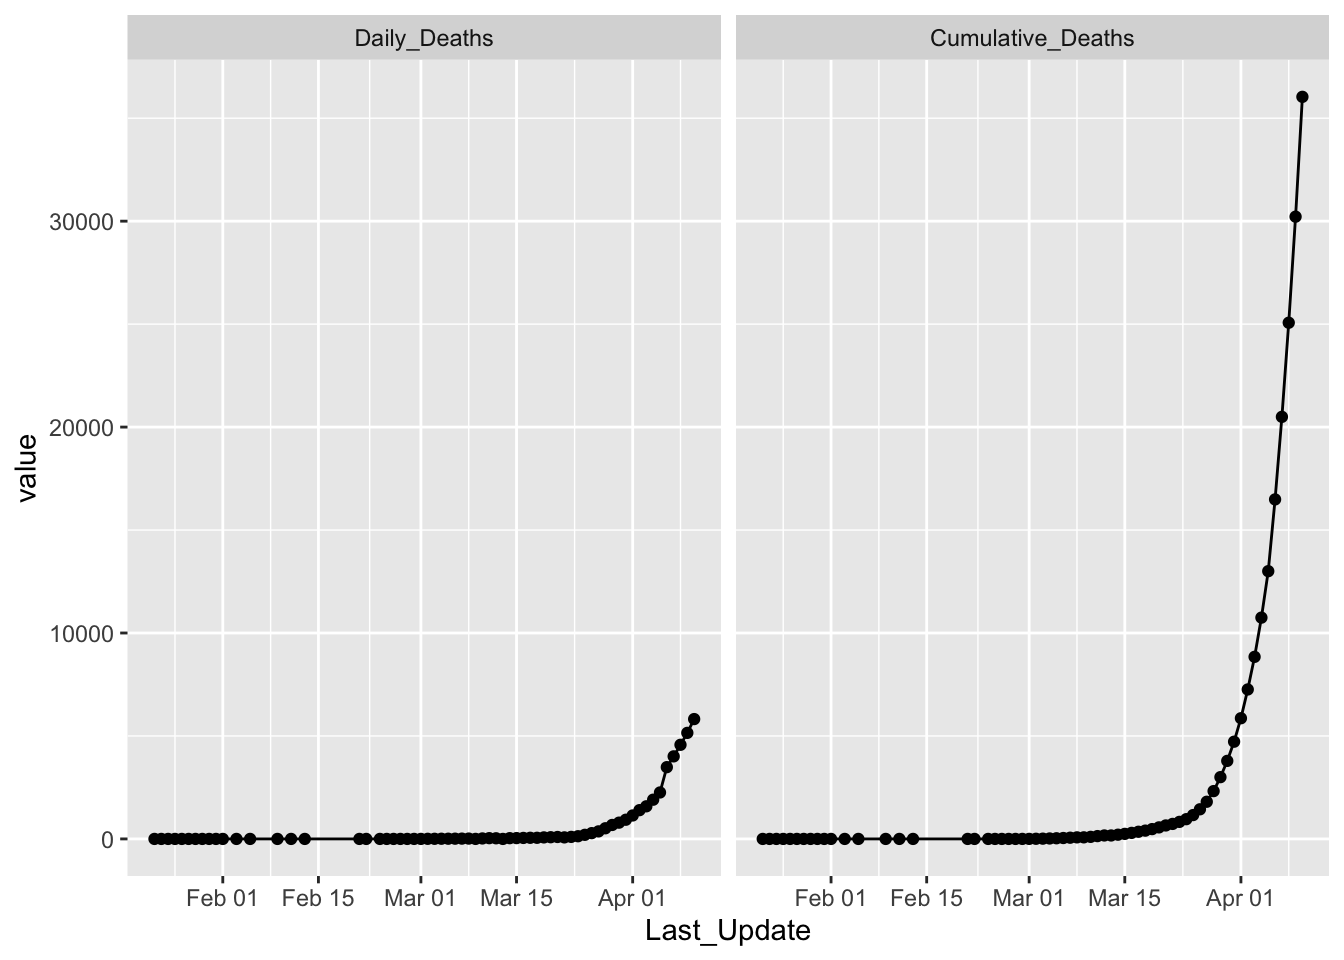
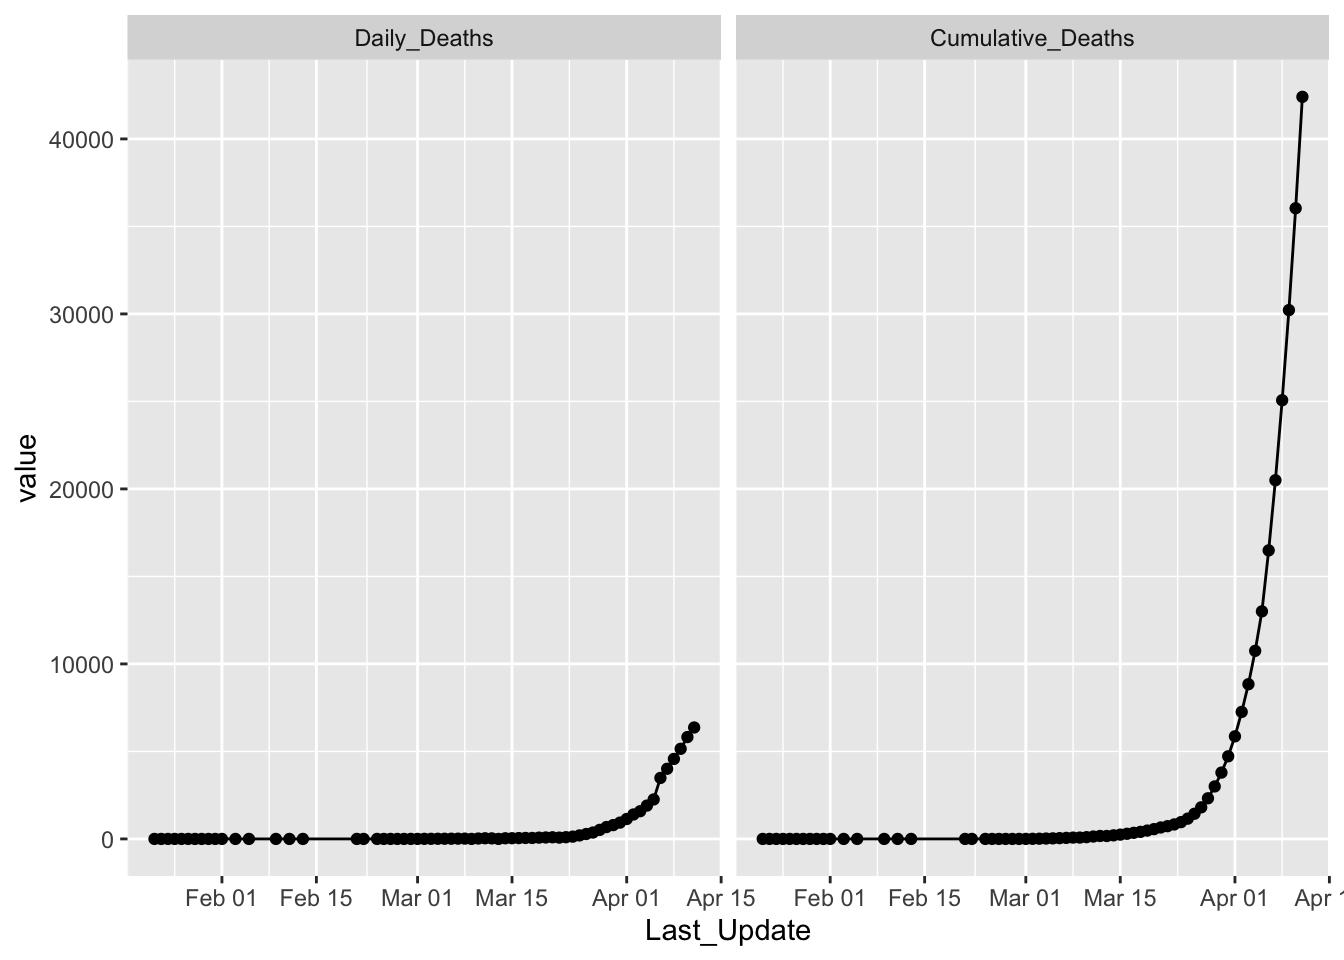
Only download most recent csv from CSSE database

diff --git a/blog/public/2020/03/30/data-download-and-sanitation-and-our-first-plot/index.html b/blog/public/2020/03/30/data-download-and-sanitation-and-our-first-plot/index.html
@@ -128,11 +128,13 @@ csv.list &lt;- xml_text(html.read) %&gt;% strsplit(split=&#39;\\n&#39;) %&gt;% u
 }
 
 dates.list &lt;- parse_dates.fn(csv.list)
-dates.list[sapply(dates.list, is.null)] &lt;- NULL  # Drop null values in list</code></pre>
+dates.list[sapply(dates.list, is.null)] &lt;- NULL  # Drop null values in list
+curr_csvs.list &lt;- list.files(paste0(git.path, &#39;/Code/COVID19-Data-Exploration/data/&#39;))</code></pre>
 <pre class="r"><code># Fetch raw csv data
 raw.path &lt;- &#39;https://raw.githubusercontent.com/CSSEGISandData/COVID-19/master/csse_covid_19_data/csse_covid_19_daily_reports/&#39;
 suppress &lt;- lapply(dates.list, function(x, raw.path) {
-    download.file(paste0(raw.path, x), paste0(git.path,&#39;/Code/COVID19-Data-Exploration/data/&#39;,x))
+    if (!(x %in% curr_csvs.list))  # Only download most recent csv
+        download.file(paste0(raw.path, x), paste0(git.path,&#39;/Code/COVID19-Data-Exploration/data/&#39;,x))
 }, raw.path)</code></pre>
 </div>
 <div id="data-sanitization-making-our-data-tidy" class="section level2">
@@ -177,7 +179,7 @@ us_deaths.dt &lt;- data.dt[data.dt$Country_Region==&#39;US&#39;,] %&gt;% group_b
     summarize(Daily_Deaths=max(Deaths)) %&gt;% data.table
 us_deaths.dt$Cumulative_Deaths &lt;- cumsum(us_deaths.dt$Daily_Deaths)
 print(paste(&#39;Total U.S. Deaths:&#39;, sum(us_deaths.dt$Daily_Deaths)))</code></pre>
-<pre><code>## [1] &quot;Total U.S. Deaths: 36038&quot;</code></pre>
+<pre><code>## [1] &quot;Total U.S. Deaths: 42405&quot;</code></pre>
 </div>
 <div id="our-first-plot" class="section level2">
 <h2>Our First Plot</h2>

diff --git a/blog/content/post/data_download_sanitation.html b/blog/content/post/data_download_sanitation.html
@@ -58,11 +58,13 @@ csv.list &lt;- xml_text(html.read) %&gt;% strsplit(split=&#39;\\n&#39;) %&gt;% u
 }
 
 dates.list &lt;- parse_dates.fn(csv.list)
-dates.list[sapply(dates.list, is.null)] &lt;- NULL  # Drop null values in list</code></pre>
+dates.list[sapply(dates.list, is.null)] &lt;- NULL  # Drop null values in list
+curr_csvs.list &lt;- list.files(paste0(git.path, &#39;/Code/COVID19-Data-Exploration/data/&#39;))</code></pre>
 <pre class="r"><code># Fetch raw csv data
 raw.path &lt;- &#39;https://raw.githubusercontent.com/CSSEGISandData/COVID-19/master/csse_covid_19_data/csse_covid_19_daily_reports/&#39;
 suppress &lt;- lapply(dates.list, function(x, raw.path) {
-    download.file(paste0(raw.path, x), paste0(git.path,&#39;/Code/COVID19-Data-Exploration/data/&#39;,x))
+    if (!(x %in% curr_csvs.list))  # Only download most recent csv
+        download.file(paste0(raw.path, x), paste0(git.path,&#39;/Code/COVID19-Data-Exploration/data/&#39;,x))
 }, raw.path)</code></pre>
 </div>
 <div id="data-sanitization-making-our-data-tidy" class="section level2">
@@ -107,7 +109,7 @@ us_deaths.dt &lt;- data.dt[data.dt$Country_Region==&#39;US&#39;,] %&gt;% group_b
     summarize(Daily_Deaths=max(Deaths)) %&gt;% data.table
 us_deaths.dt$Cumulative_Deaths &lt;- cumsum(us_deaths.dt$Daily_Deaths)
 print(paste(&#39;Total U.S. Deaths:&#39;, sum(us_deaths.dt$Daily_Deaths)))</code></pre>
-<pre><code>## [1] &quot;Total U.S. Deaths: 36038&quot;</code></pre>
+<pre><code>## [1] &quot;Total U.S. Deaths: 42405&quot;</code></pre>
 </div>
 <div id="our-first-plot" class="section level2">
 <h2>Our First Plot</h2>
